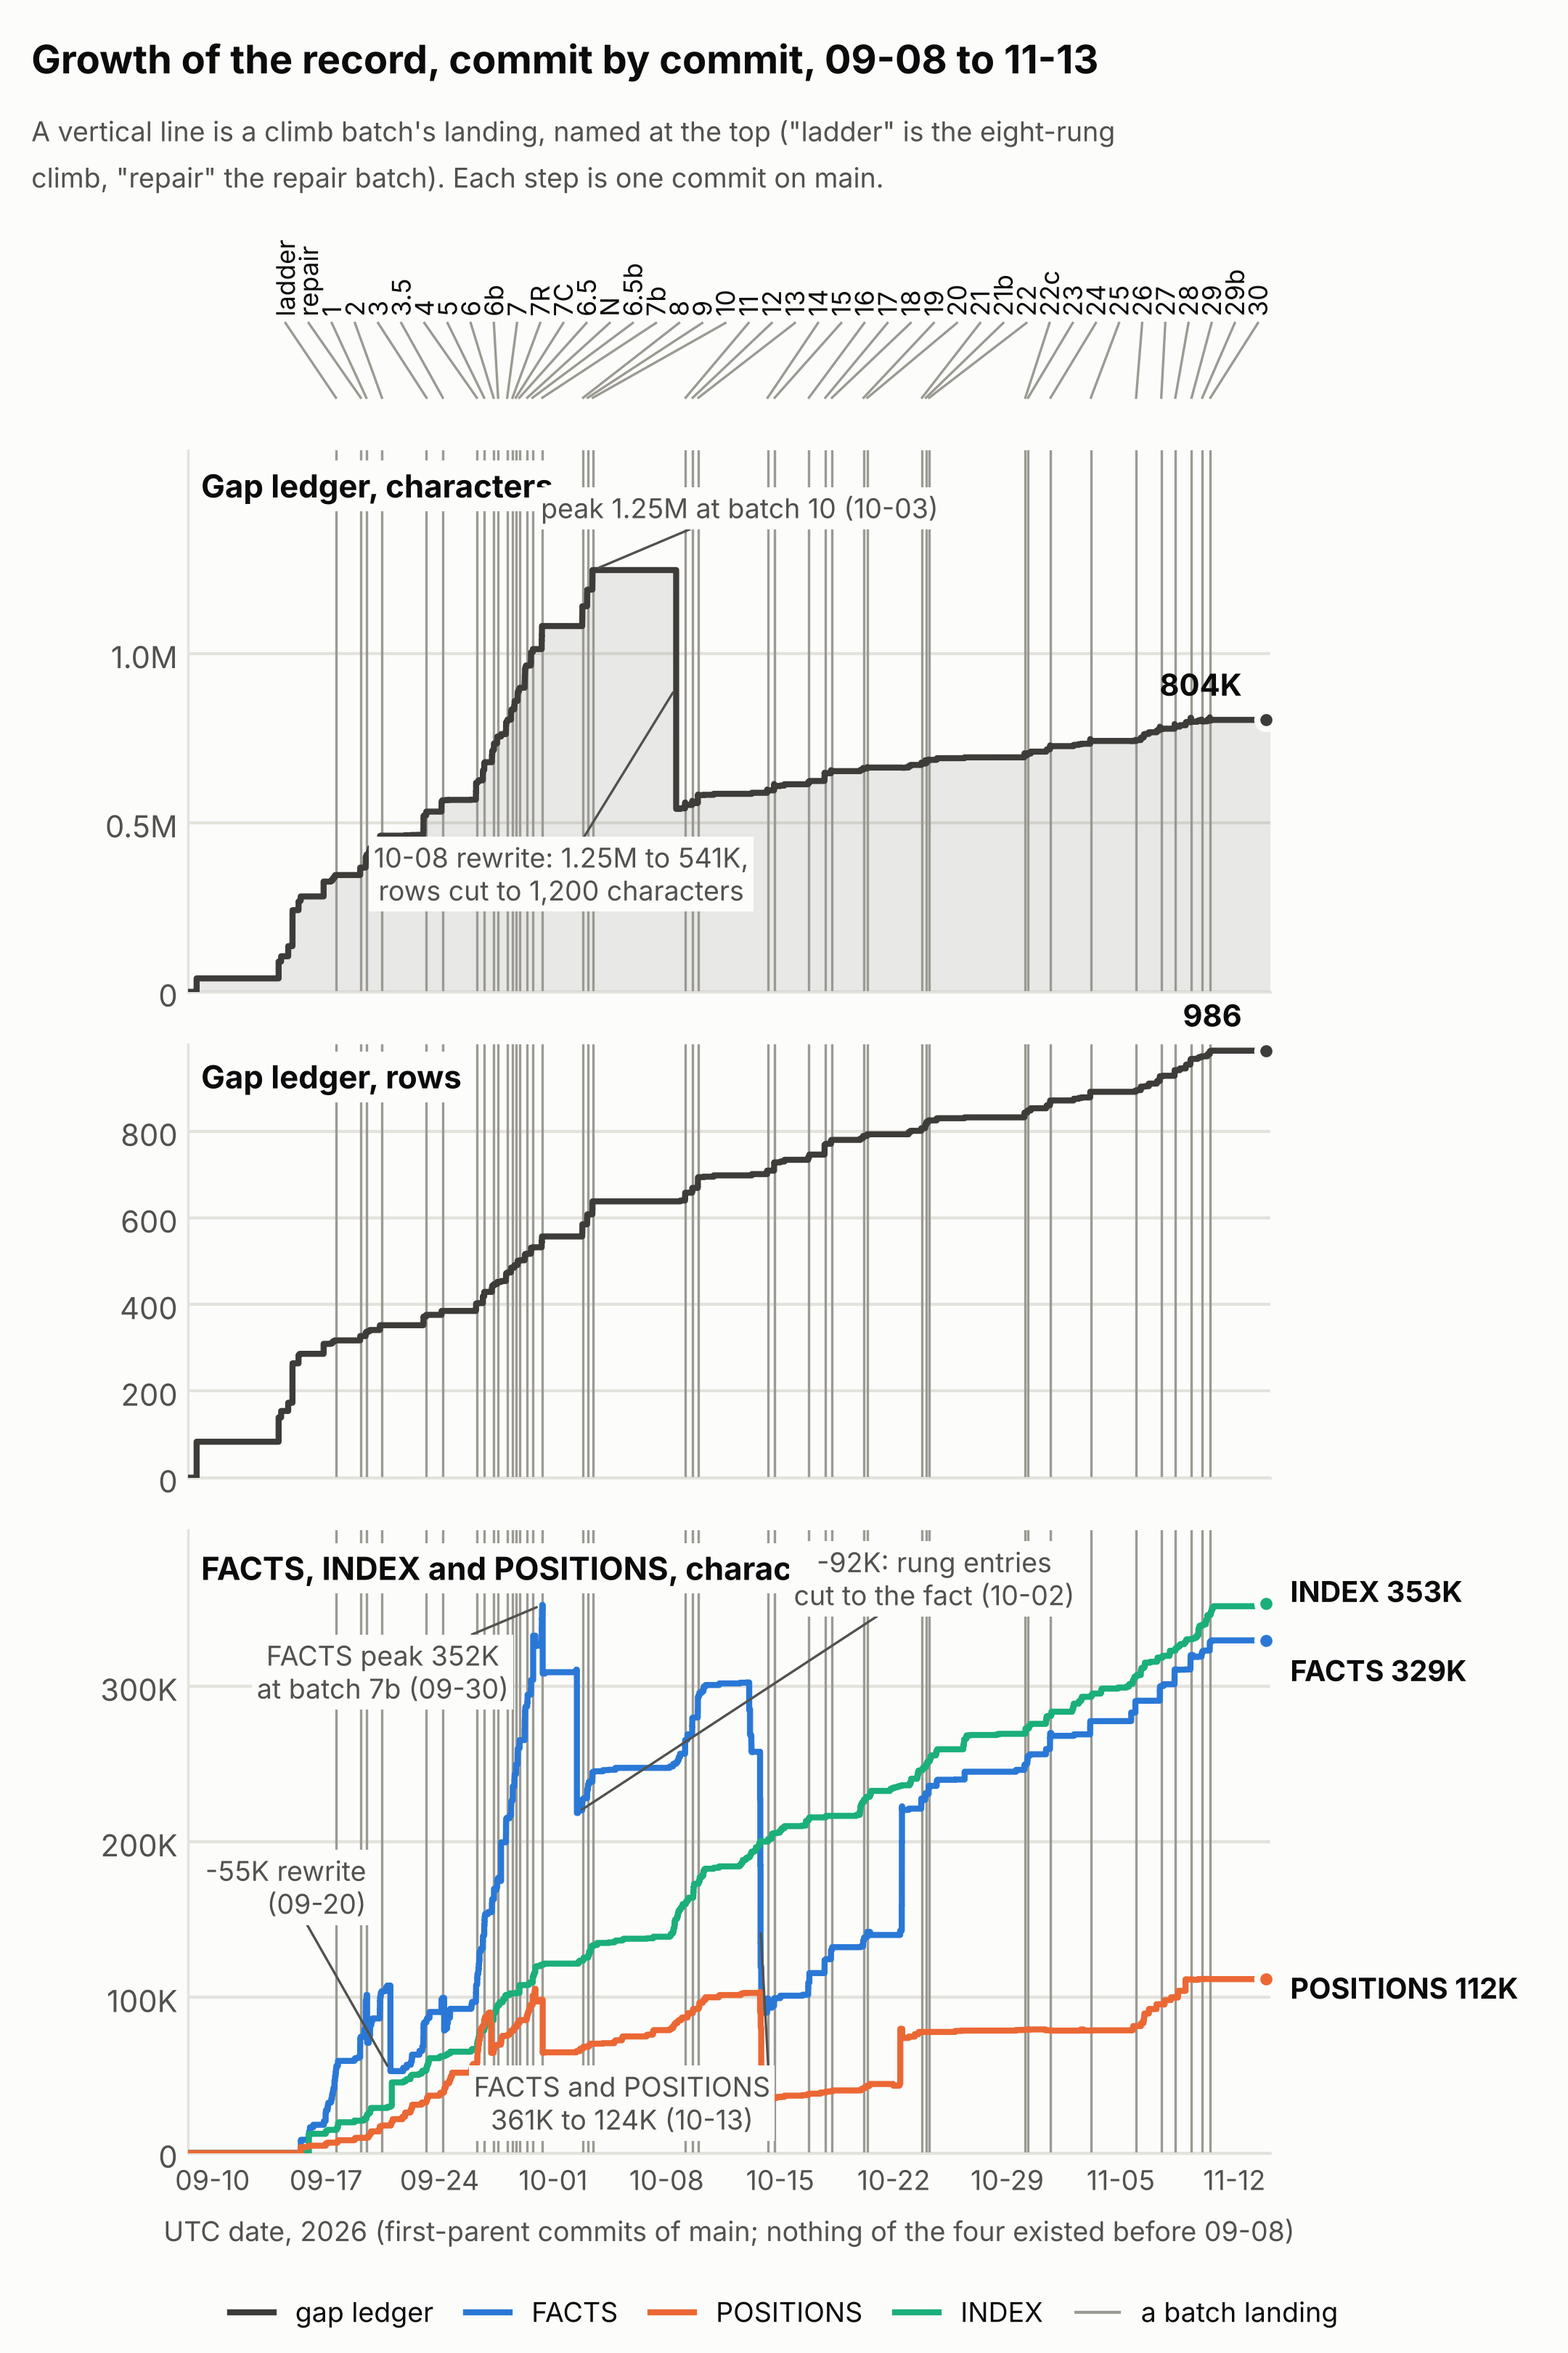
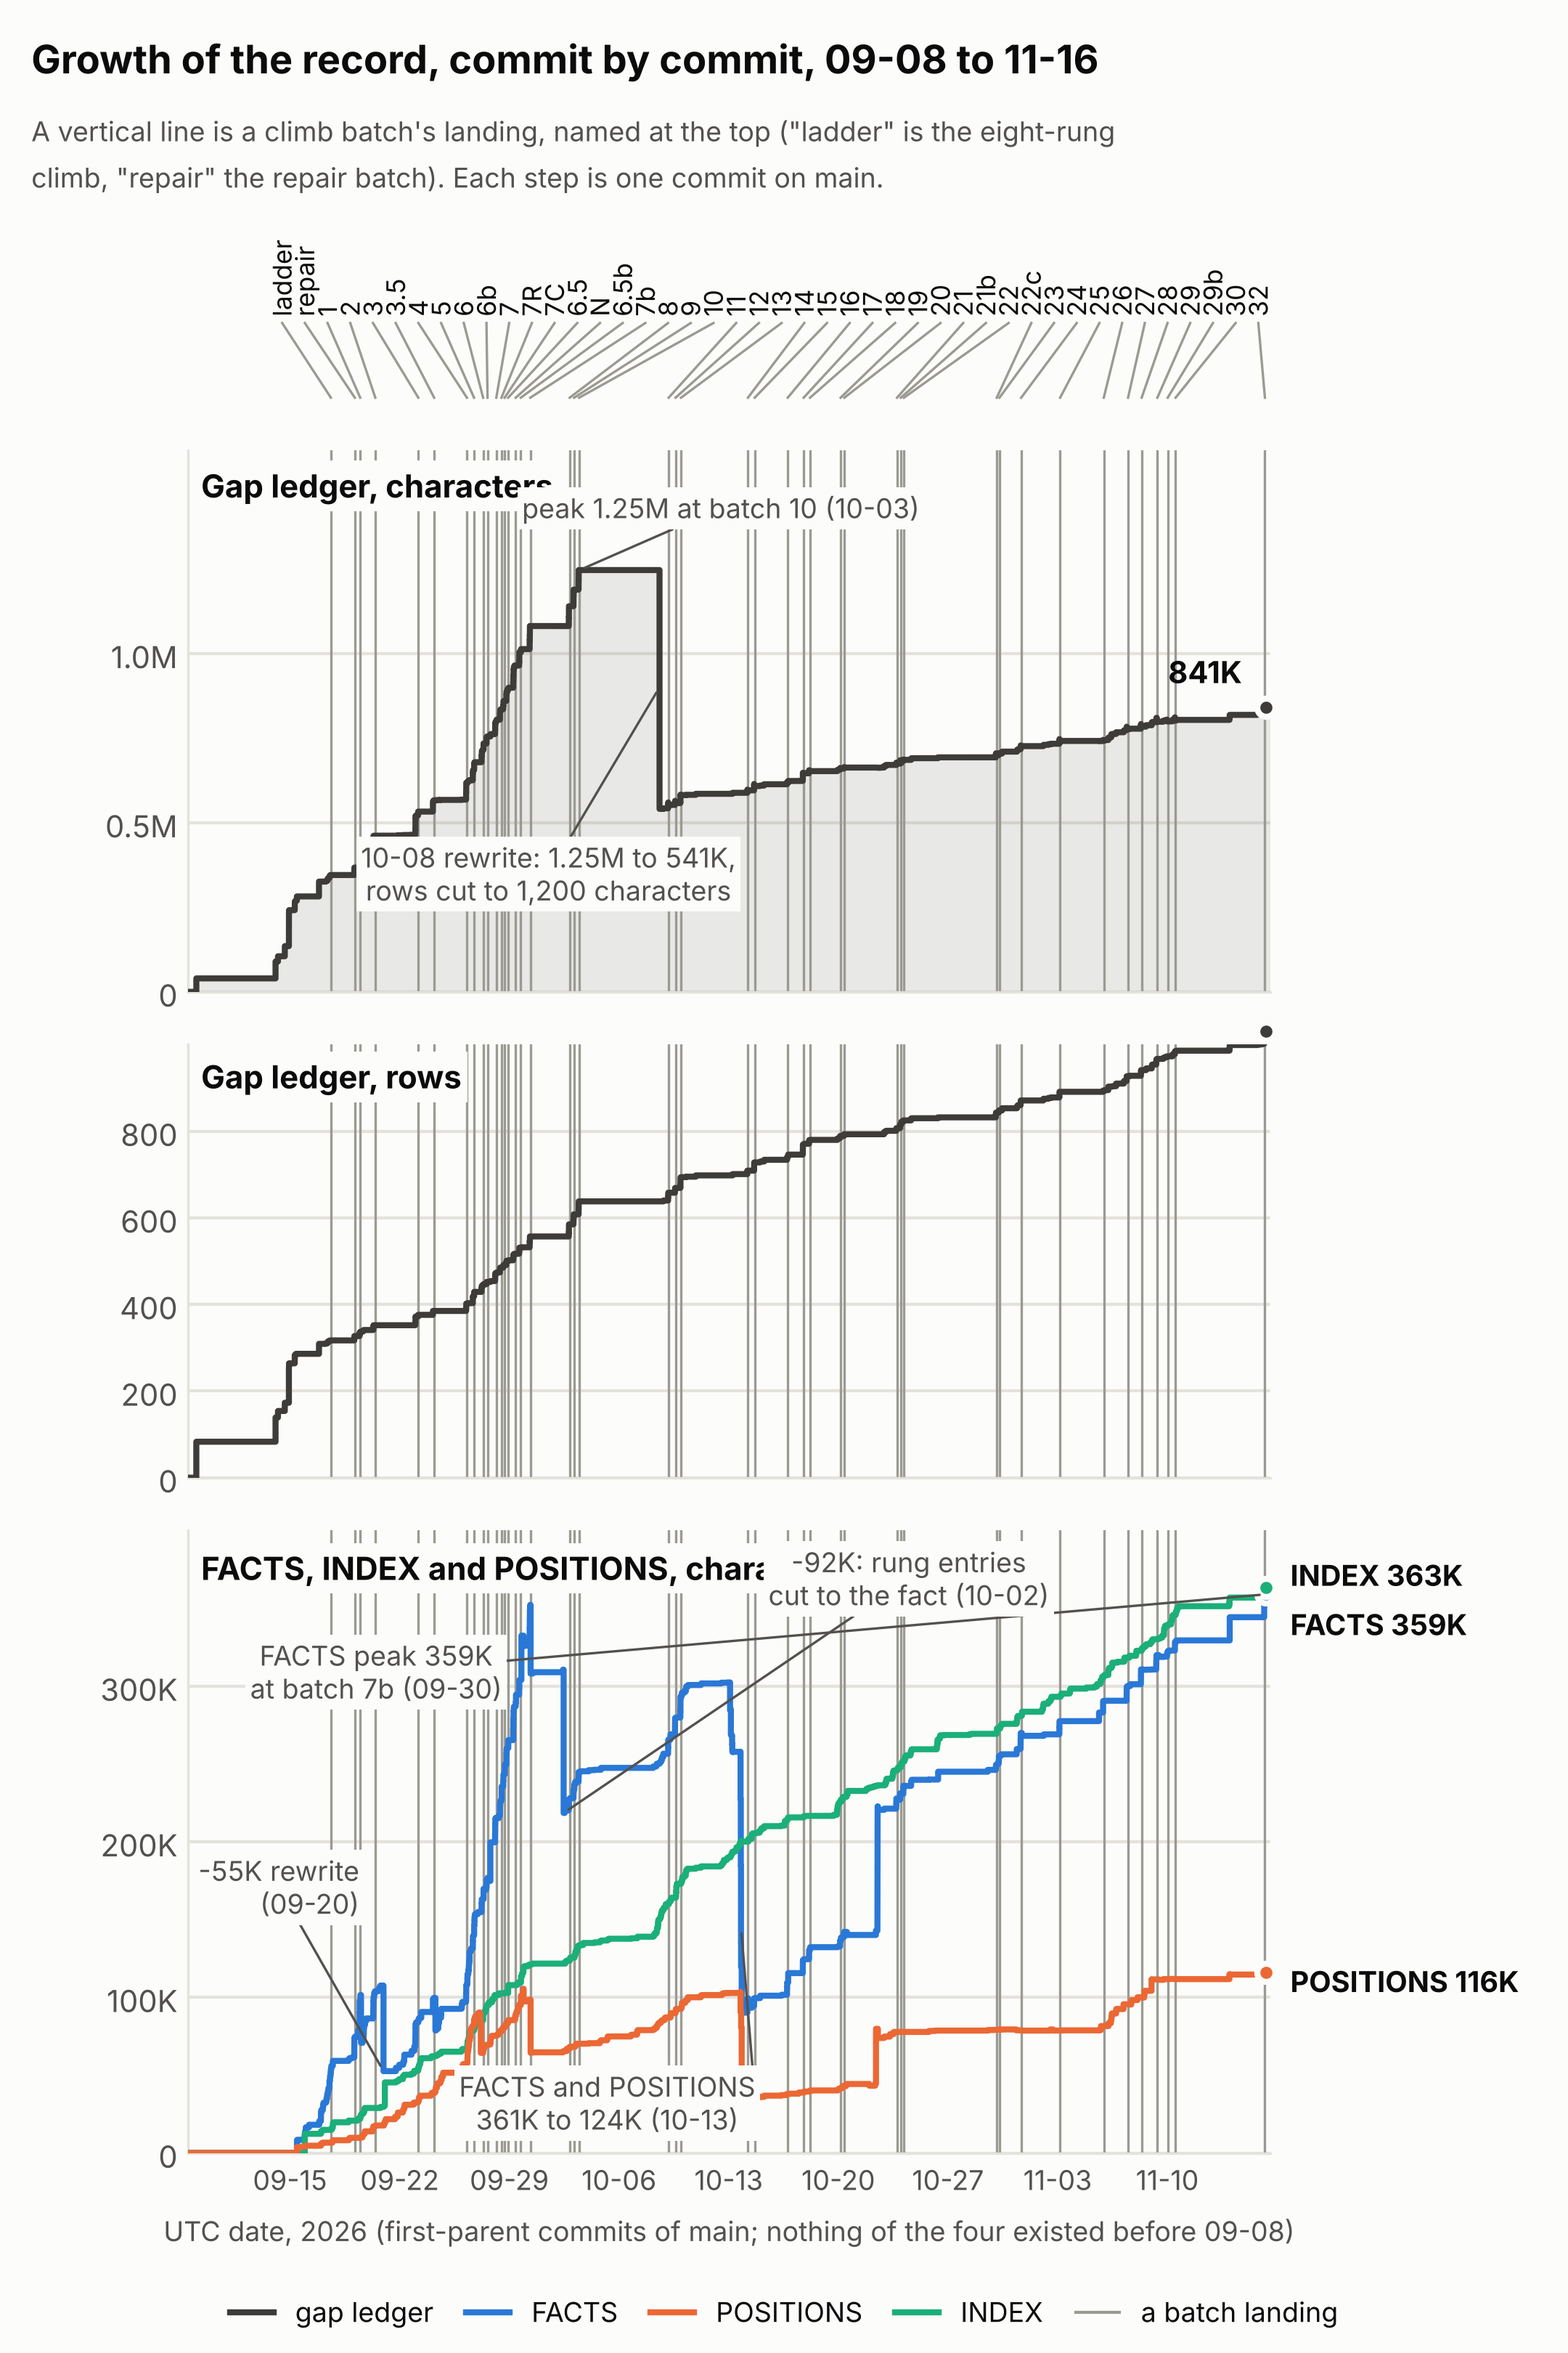
Revival page: where it stands at the landing of climb batch 32, the record chart regenerated
By the climb batch 32 landing workflow.

Claude-Session: https://claude.ai/code/session_01AmiXNpJxQ6TBwec4vJZHDB

Changed region(s): [[0.1241, 0.0935, 0.9306, 0.9352], [0.8995, 0.8417, 0.9616, 0.8728], [0.8375, 0.8417, 0.8685, 0.8728]]

diff --git a/docs/revival-story/index.html b/docs/revival-story/index.html
@@ -201,7 +201,7 @@ details.words dl.gloss dd { margin-left: 1em; }
 <p>A script rewrites the block below at each landing, from the plan and the gate. The rest of the page changes only when a phase ends.</p>
 <div class="intro">
 <!-- stand:begin -->
-<p><strong>Where it stands, at the landing of batch 30 on 10 November 2026</strong></p>
+<p><strong>Where it stands, at the landing of batch 32 on 16 November 2026</strong></p>
 <ul>
 <li><strong>Phase:</strong> 4 of 6, which ends with the switch-over, since 30 October.</li>
 <li><strong>Checker count:</strong> 0.</li>
@@ -209,7 +209,7 @@ details.words dl.gloss dd { margin-left: 1em; }
 <li><strong>Native bindings that both implementations can call:</strong> 374 of 402.</li>
 <li><strong>microGPT under the interpreter:</strong> the flat and the APL program pass the quick check.</li>
 <li><strong>microGPT on the compiler:</strong> both programs stop at names that only the library declares, until the switch-over.</li>
-<li><strong>Next:</strong> batch 31, more native bindings and the code generator's gaps, once the curator approves it.</li>
+<li><strong>Next:</strong> batch 33, more native bindings and the code generator's gaps, once the curator approves it.</li>
 </ul>
 <!-- stand:end -->
 </div>
@@ -302,7 +302,7 @@ details.words dl.gloss dd { margin-left: 1em; }
 <section id="the-record" class="part">
 <h2>7. The record</h2>
 <p>The record is the project's notes, kept in the repository beside the team's code. Its main parts are the gap ledger (section 5), the list of facts, the list of the curator's decisions, and an index of all notes. An agent reads the parts its task needs before it starts, so no agent works out again what the record holds.</p>
-<figure><img src="record-growth.png" alt="The gap ledger&#x27;s characters and rows, and FACTS, POSITIONS and INDEX, commit by commit from 09-08 to 11-13, with each batch&#x27;s landing marked" width="1080" height="1620"></figure>
+<figure><img src="record-growth.png" alt="The gap ledger&#x27;s characters and rows, and FACTS, POSITIONS and INDEX, commit by commit from 09-08 to 11-16, with each batch&#x27;s landing marked" width="1080" height="1620"></figure>
 <p>The chart has three panels on one time axis, with a vertical line at each batch's landing. They show the ledger's characters, its rows, and the sizes of the facts, the decisions and the index. The ledger grows mostly while batches run, and the index by one line for each new note. Each sharp fall is a rewrite that shortened the entries, with the earlier text kept in history.</p>
 </section>
 <footer>

diff --git a/explorations/coordinator/process-engineering/revival-story.html b/explorations/coordinator/process-engineering/revival-story.html
@@ -194,7 +194,7 @@ details.words dl.gloss dd { margin-left: 1em; }
 <p>A script rewrites the block below at each landing, from the plan and the gate. The rest of the page changes only when a phase ends.</p>
 <div class="intro">
 <!-- stand:begin -->
-<p><strong>Where it stands, at the landing of batch 30 on 10 November 2026</strong></p>
+<p><strong>Where it stands, at the landing of batch 32 on 16 November 2026</strong></p>
 <ul>
 <li><strong>Phase:</strong> 4 of 6, which ends with the switch-over, since 30 October.</li>
 <li><strong>Checker count:</strong> 0.</li>
@@ -202,7 +202,7 @@ details.words dl.gloss dd { margin-left: 1em; }
 <li><strong>Native bindings that both implementations can call:</strong> 374 of 402.</li>
 <li><strong>microGPT under the interpreter:</strong> the flat and the APL program pass the quick check.</li>
 <li><strong>microGPT on the compiler:</strong> both programs stop at names that only the library declares, until the switch-over.</li>
-<li><strong>Next:</strong> batch 31, more native bindings and the code generator's gaps, once the curator approves it.</li>
+<li><strong>Next:</strong> batch 33, more native bindings and the code generator's gaps, once the curator approves it.</li>
 </ul>
 <!-- stand:end -->
 </div>
@@ -295,7 +295,7 @@ details.words dl.gloss dd { margin-left: 1em; }
 <section id="the-record" class="part">
 <h2>7. The record</h2>
 <p>The record is the project's notes, kept in the repository beside the team's code. Its main parts are the gap ledger (section 5), the list of facts, the list of the curator's decisions, and an index of all notes. An agent reads the parts its task needs before it starts, so no agent works out again what the record holds.</p>
-<figure><img src="record-growth.png" alt="The gap ledger&#x27;s characters and rows, and FACTS, POSITIONS and INDEX, commit by commit from 09-08 to 11-13, with each batch&#x27;s landing marked" width="1080" height="1620"></figure>
+<figure><img src="record-growth.png" alt="The gap ledger&#x27;s characters and rows, and FACTS, POSITIONS and INDEX, commit by commit from 09-08 to 11-16, with each batch&#x27;s landing marked" width="1080" height="1620"></figure>
 <p>The chart has three panels on one time axis, with a vertical line at each batch's landing. They show the ledger's characters, its rows, and the sizes of the facts, the decisions and the index. The ledger grows mostly while batches run, and the index by one line for each new note. Each sharp fall is a rewrite that shortened the entries, with the earlier text kept in history.</p>
 </section>
 <footer>

diff --git a/explorations/coordinator/process-engineering/revival-story.md b/explorations/coordinator/process-engineering/revival-story.md
@@ -124,7 +124,7 @@ A reading is one interpretation of a rule where the specification's text allows 
 A script rewrites the block below at each landing, from the plan and the gate. The rest of the page changes only when a phase ends.
 
 <!-- stand:begin -->
-**Where it stands, at the landing of batch 30 on 10 November 2026**
+**Where it stands, at the landing of batch 32 on 16 November 2026**
 
 - **Phase:** 4 of 6, which ends with the switch-over, since 30 October.
 - **Checker count:** 0.
@@ -132,7 +132,7 @@ A script rewrites the block below at each landing, from the plan and the gate. T
 - **Native bindings that both implementations can call:** 374 of 402.
 - **microGPT under the interpreter:** the flat and the APL program pass the quick check.
 - **microGPT on the compiler:** both programs stop at names that only the library declares, until the switch-over.
-- **Next:** batch 31, more native bindings and the code generator's gaps, once the curator approves it.
+- **Next:** batch 33, more native bindings and the code generator's gaps, once the curator approves it.
 <!-- stand:end -->
 
 ## 5. What happened
